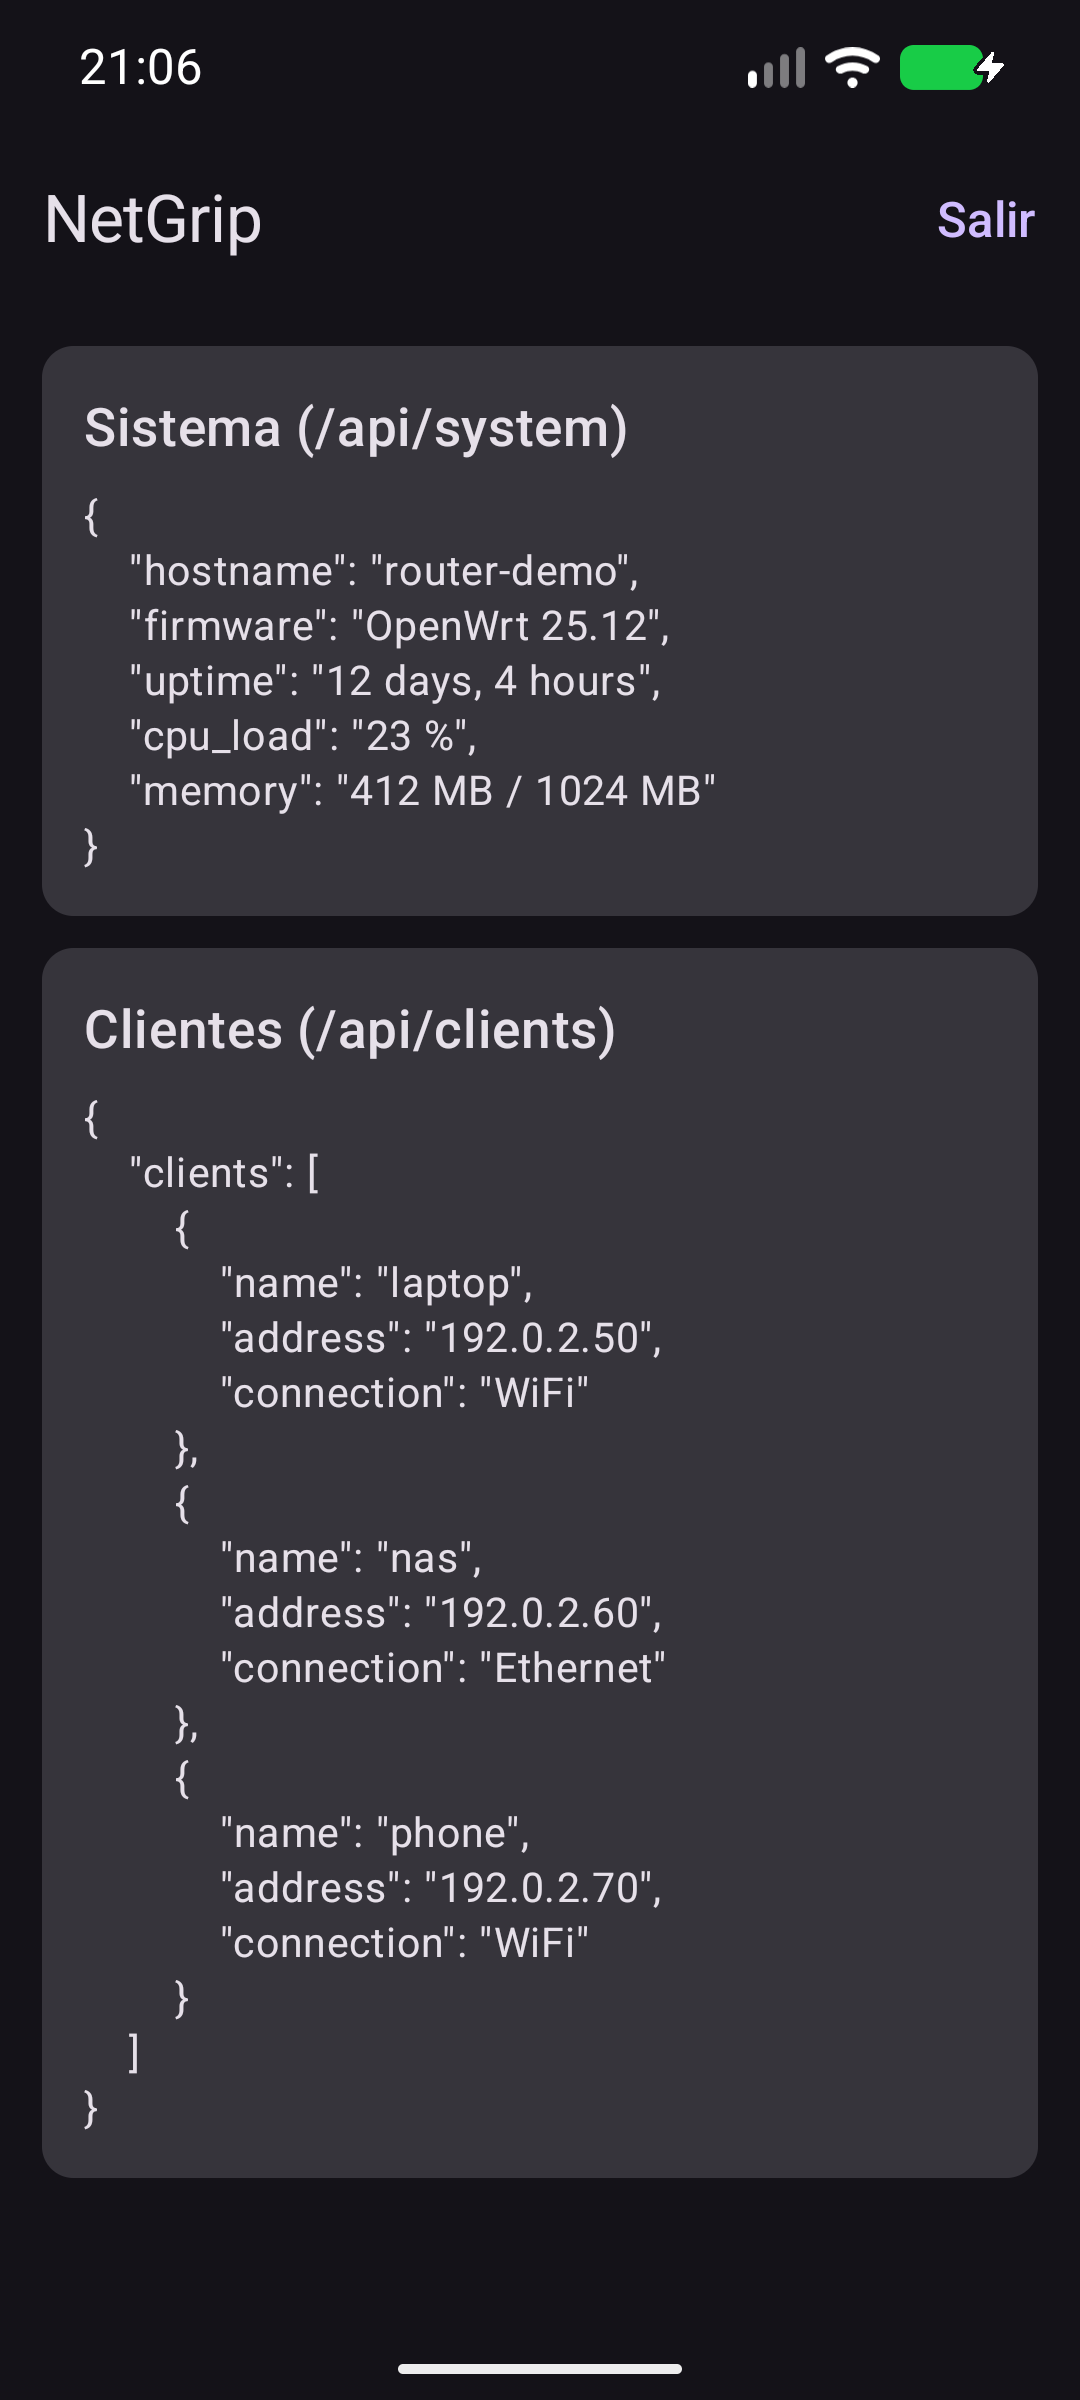
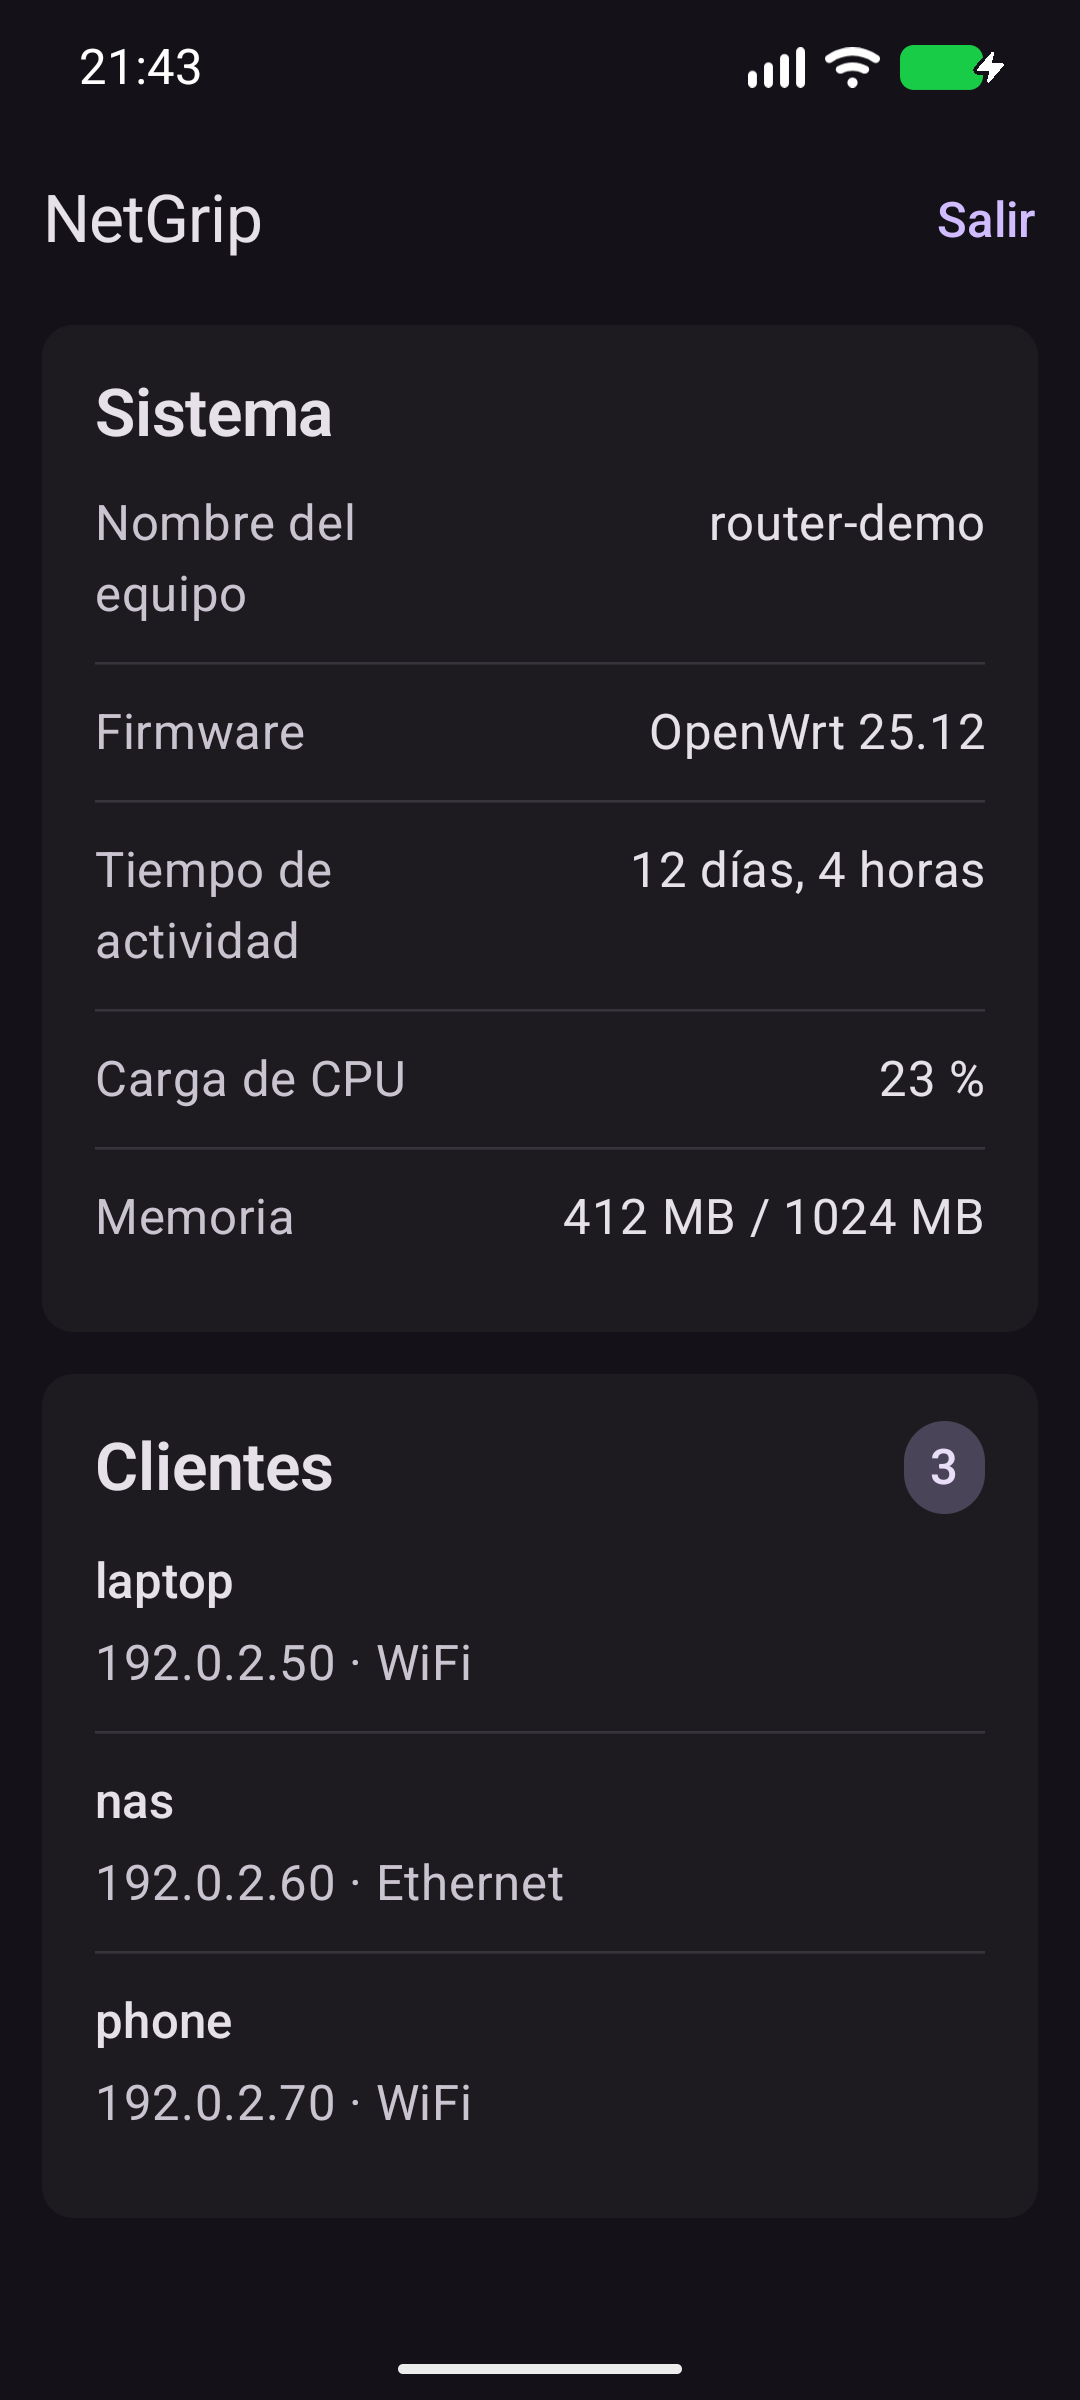
docs: show Material dashboard screenshot

diff --git a/docs/fase-1-spike.md b/docs/fase-1-spike.md
@@ -30,7 +30,7 @@ The login body is `{"username":"...","password":"..."}`. If the username is empt
 
 ## DTO policy
 
-The /api/system and /api/clients response bodies had not been captured when this scaffold was created. Phase 1 consumes them as `JsonElement` and displays the raw JSON.
+The /api/system and /api/clients response bodies had not been captured when this scaffold was created. Phase 1 consumes them as `JsonElement` and renders them through tolerant Material 3 components without fixed DTOs.
 
 Before adding typed DTOs, capture real router responses and fix the fields with contract tests. Before expanding the API surface, consider publishing a versioned OpenAPI contract from NetGrip.
 
